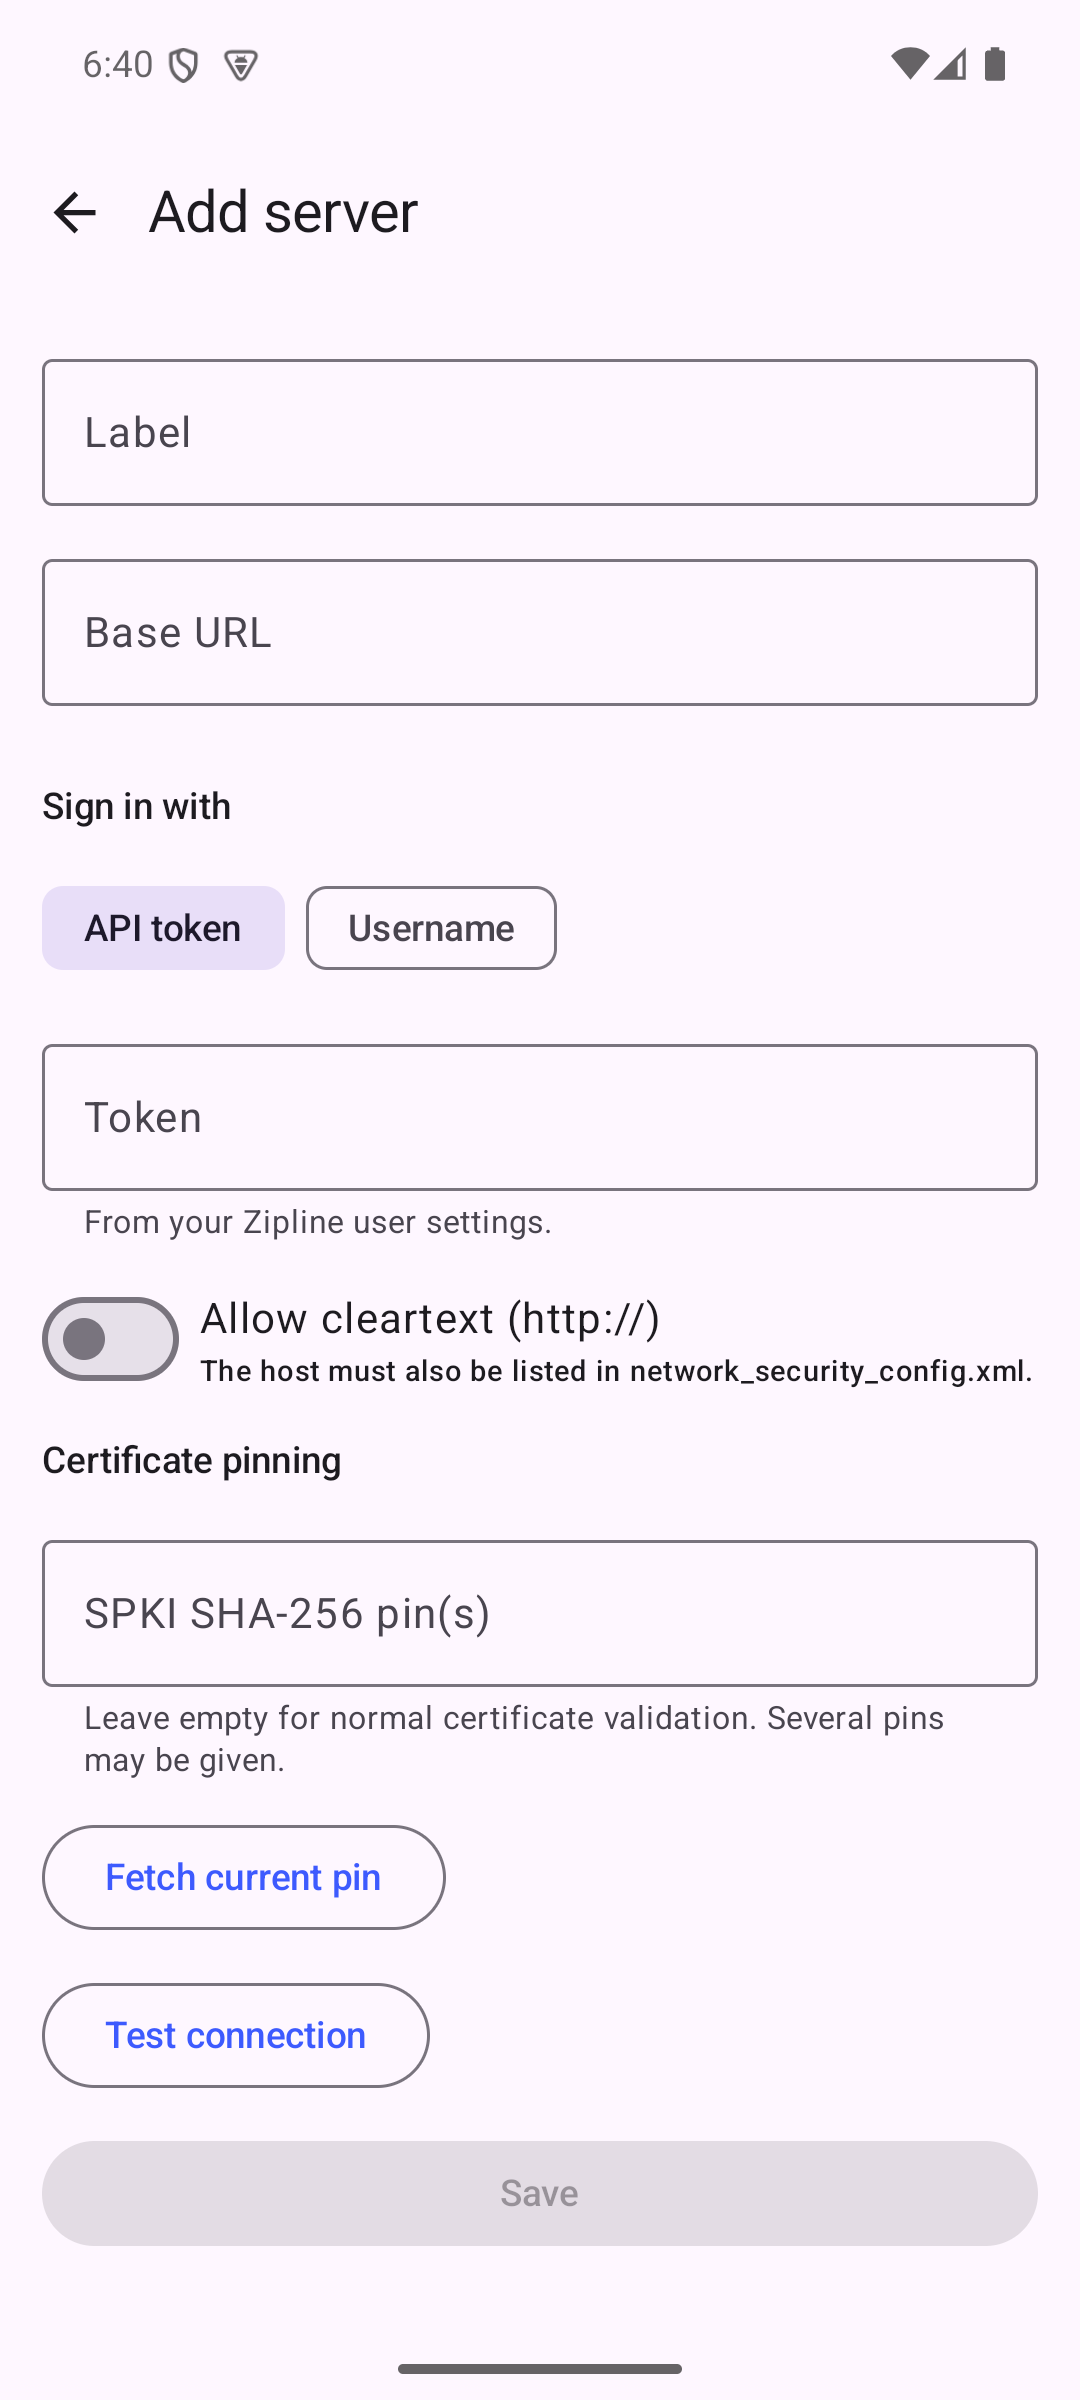
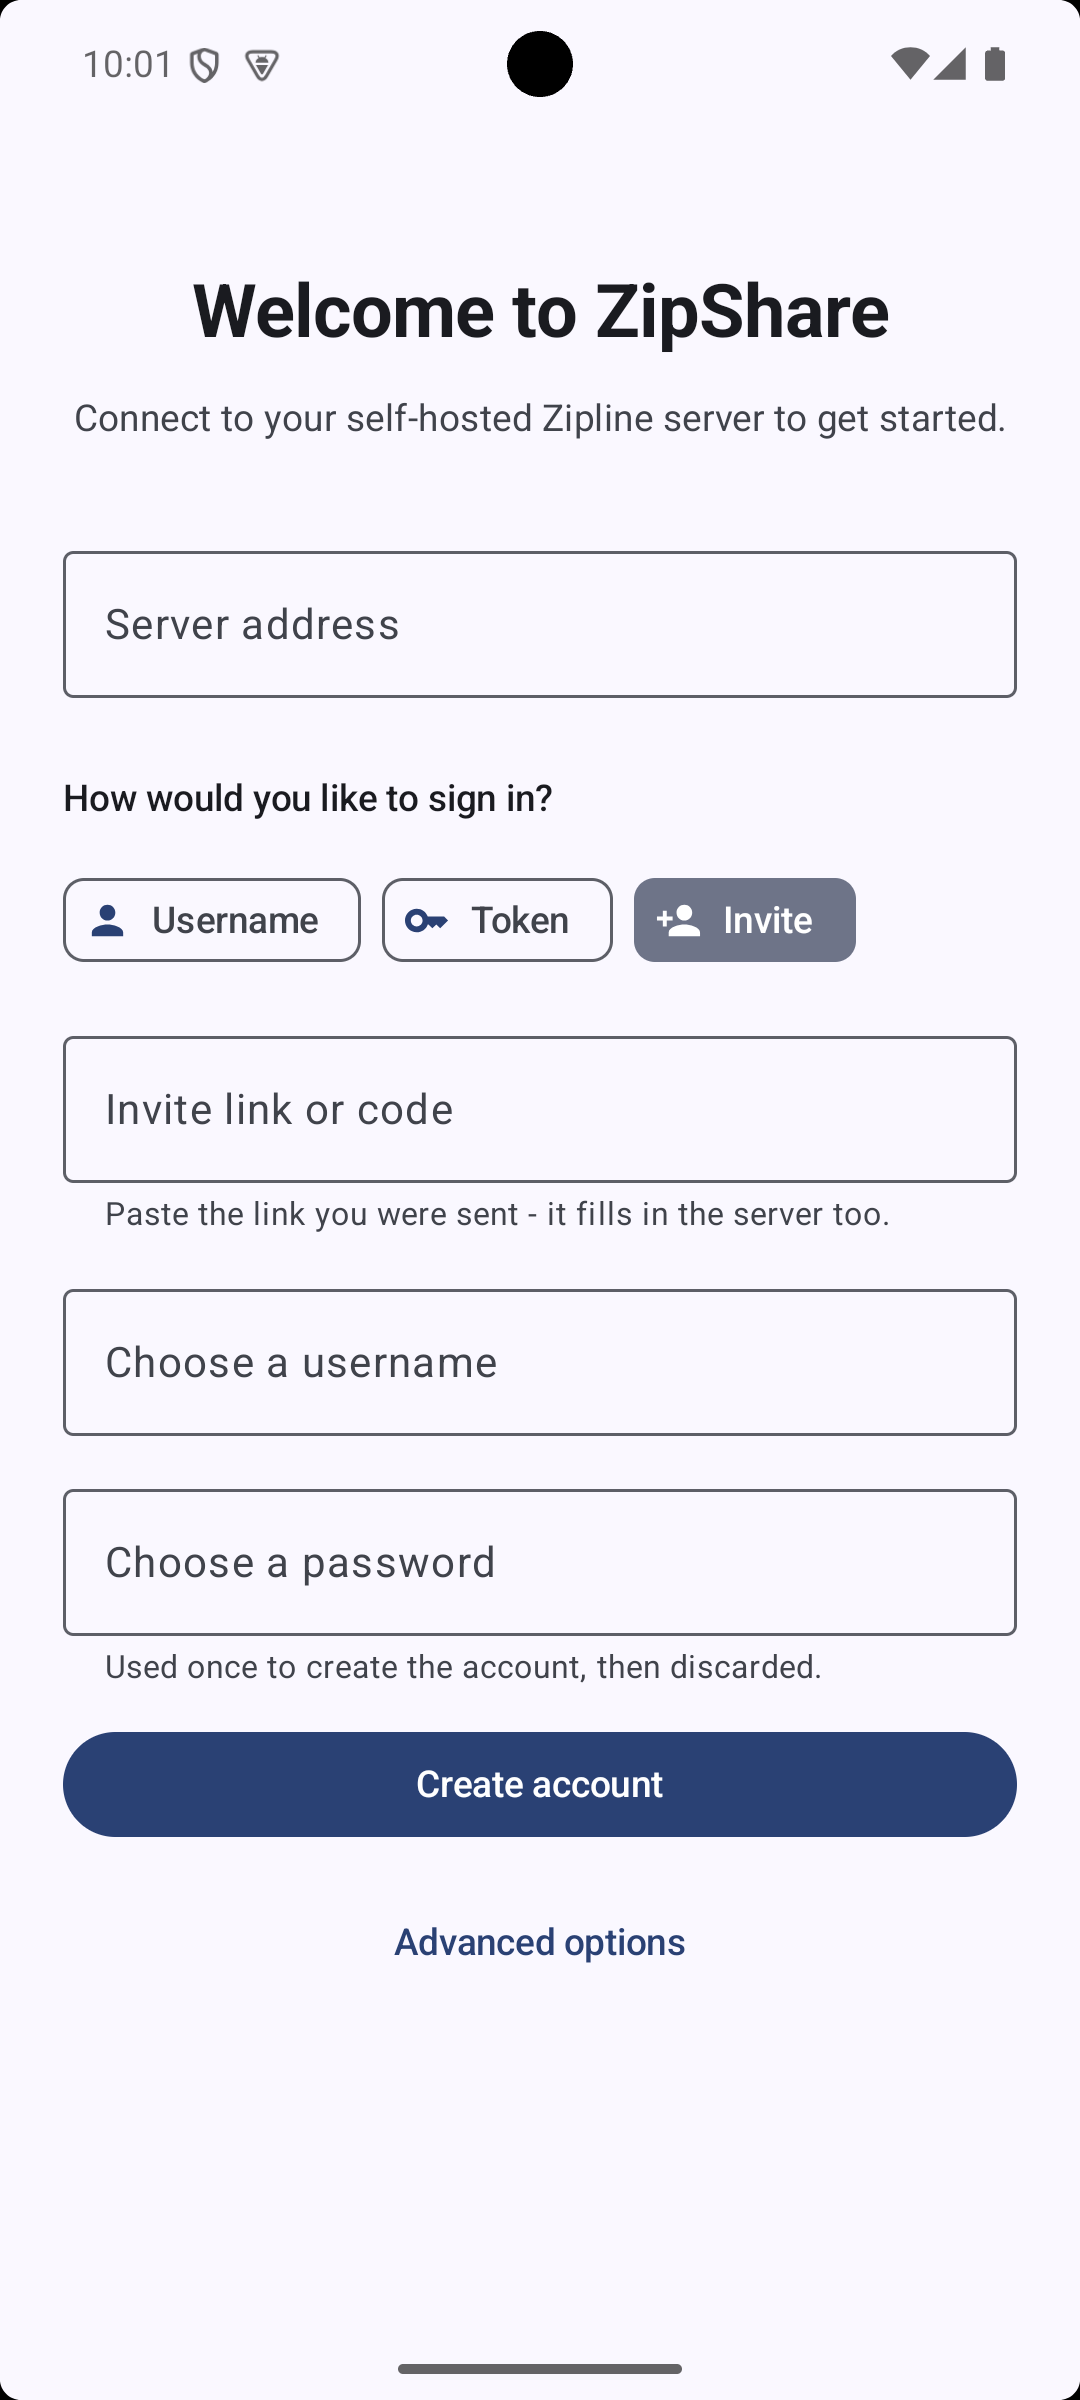
Release 1.4.5 - picture-in-picture docks itself, lint clean (#27)
- Leaving the app during playback now docks the video automatically, and the shrink animates from the video frame instead of the whole window
- Fix all 38 remaining lint warnings; the build is clean with nothing suppressed by accident
- Dependency-currency and preview-SDK checks disabled deliberately - Dependabot owns those and targetSdk 37 is a preview
- Drop the app-search and server-backup screenshots; renumber the rest to a contiguous 01-39

diff --git a/app/src/main/java/dev/zipshare/ui/viewer/VideoPlayer.kt b/app/src/main/java/dev/zipshare/ui/viewer/VideoPlayer.kt
@@ -2,6 +2,7 @@ package dev.zipshare.ui.viewer
 
 import android.app.Activity
 import android.app.PictureInPictureParams
+import android.os.Build
 import android.util.Rational
 import androidx.compose.foundation.layout.Box
 import androidx.compose.foundation.layout.padding
@@ -11,10 +12,17 @@ import androidx.compose.material3.Icon
 import androidx.compose.material3.IconButton
 import androidx.compose.runtime.Composable
 import androidx.compose.runtime.DisposableEffect
+import androidx.compose.runtime.LaunchedEffect
+import androidx.compose.runtime.getValue
+import androidx.compose.runtime.mutableStateOf
 import androidx.compose.runtime.remember
+import androidx.compose.runtime.setValue
 import androidx.compose.ui.Alignment
 import androidx.compose.ui.Modifier
+import androidx.compose.ui.geometry.Rect
 import androidx.compose.ui.graphics.Color
+import androidx.compose.ui.layout.boundsInWindow
+import androidx.compose.ui.layout.onGloballyPositioned
 import androidx.compose.ui.platform.LocalConfiguration
 import androidx.compose.ui.platform.LocalContext
 import androidx.compose.ui.unit.dp
@@ -27,6 +35,7 @@ import androidx.media3.exoplayer.source.DefaultMediaSourceFactory
 import androidx.media3.ui.PlayerView
 import dev.zipshare.ui.findActivity
 import okhttp3.OkHttpClient
+
 
 /**
  * Plays a file straight off the server.
@@ -61,9 +70,21 @@ fun VideoPlayer(url: String, client: OkHttpClient, modifier: Modifier = Modifier
 
     DisposableEffect(player) { onDispose { player.release() } }
 
+    // Where the video sits on screen, so the system can animate the shrink from the real frame
+    // instead of the whole window. Kept as state because it is only known after layout.
+    var videoBounds by remember { mutableStateOf<Rect?>(null) }
+
+    // Registering the params up front is what lets Android dock automatically when the user leaves
+    // during playback (API 31+); without it PiP only ever happens on the explicit button.
+    LaunchedEffect(activity, videoBounds, player.videoSize) {
+        activity?.updatePipParams(player.videoSize.width, player.videoSize.height, videoBounds)
+    }
+
     Box(modifier) {
         AndroidView(
-            modifier = Modifier.matchParentSize(),
+            modifier = Modifier
+                .matchParentSize()
+                .onGloballyPositioned { videoBounds = it.boundsInWindow() },
             factory = { ctx -> PlayerView(ctx).apply { this.player = player } },
             update = { view ->
                 view.player = player
@@ -76,7 +97,7 @@ fun VideoPlayer(url: String, client: OkHttpClient, modifier: Modifier = Modifier
 
         if (activity != null && !inPip) {
             IconButton(
-                onClick = { activity.enterPip(player.videoSize.width, player.videoSize.height) },
+                onClick = { activity.enterPip(player.videoSize.width, player.videoSize.height, videoBounds) },
                 modifier = Modifier.align(Alignment.TopEnd).padding(8.dp),
             ) {
                 Icon(
@@ -111,17 +132,34 @@ private fun rememberIsInPip(): Boolean {
  * [IllegalArgumentException], so an unusually wide or tall video is clamped rather than left to
  * crash the viewer. A video whose size is not known yet falls back to 16:9.
  */
-private fun Activity.enterPip(width: Int, height: Int) {
-    val (numerator, denominator) = pipAspect(width, height)
+private fun Activity.enterPip(width: Int, height: Int, source: Rect?) {
     // Docking can still be refused - the device may have PiP disabled in settings, or the activity
     // may not be in the foreground by the time this lands.
-    runCatching {
-        enterPictureInPictureMode(
-            PictureInPictureParams.Builder()
-                .setAspectRatio(Rational(numerator, denominator))
-                .build(),
-        )
-    }
+    runCatching { enterPictureInPictureMode(pipParams(width, height, source)) }
+}
+
+/**
+ * Publishes the params without docking, which is what auto-enter needs.
+ *
+ * From Android 12 the system docks on its own when the user leaves during playback, but only if
+ * the activity has already declared its params - so this runs as soon as the video's size and
+ * on-screen position are known, not at the moment the button is pressed.
+ */
+private fun Activity.updatePipParams(width: Int, height: Int, source: Rect?) {
+    runCatching { setPictureInPictureParams(pipParams(width, height, source)) }
+}
+
+private fun Activity.pipParams(width: Int, height: Int, source: Rect?): PictureInPictureParams {
+    val (numerator, denominator) = pipAspect(width, height)
+    return PictureInPictureParams.Builder()
+        .setAspectRatio(Rational(numerator, denominator))
+        .apply {
+            // The rect the window shrinks *from*. Without it the animation flies out of the whole
+            // screen rather than the video frame, which is the poor transition lint warns about.
+            source?.let { setSourceRectHint(android.graphics.Rect(it.left.toInt(), it.top.toInt(), it.right.toInt(), it.bottom.toInt())) }
+            if (Build.VERSION.SDK_INT >= Build.VERSION_CODES.S) setAutoEnterEnabled(true)
+        }
+        .build()
 }
 
 /**

diff --git a/app/src/main/java/dev/zipshare/upload/UploadNotifications.kt b/app/src/main/java/dev/zipshare/upload/UploadNotifications.kt
@@ -1,5 +1,7 @@
 package dev.zipshare.upload
 
+import android.Manifest
+import android.annotation.SuppressLint
 import android.app.Notification
 import android.app.NotificationChannel
 import android.app.NotificationManager
@@ -9,21 +11,20 @@ import android.content.ClipDescription
 import android.content.ClipboardManager
 import android.content.Context
 import android.content.Intent
+import android.content.pm.PackageManager
 import android.content.pm.ServiceInfo
 import android.net.Uri
-import android.Manifest
-import android.content.pm.PackageManager
 import android.os.Build
-import androidx.core.content.ContextCompat
 import android.os.PersistableBundle
 import androidx.core.app.NotificationCompat
 import androidx.core.app.NotificationManagerCompat
+import androidx.core.content.ContextCompat
+import androidx.core.net.toUri
 import androidx.work.ForegroundInfo
 import dagger.hilt.android.qualifiers.ApplicationContext
 import dev.zipshare.R
 import javax.inject.Inject
 import javax.inject.Singleton
-
 @Singleton
 class UploadNotifications @Inject constructor(@ApplicationContext private val context: Context) {
 
@@ -90,7 +91,7 @@ class UploadNotifications @Inject constructor(@ApplicationContext private val co
         val open = PendingIntent.getActivity(
             context,
             id,
-            Intent(Intent.ACTION_VIEW, Uri.parse(url)).addFlags(Intent.FLAG_ACTIVITY_NEW_TASK),
+            Intent(Intent.ACTION_VIEW, url.toUri()).addFlags(Intent.FLAG_ACTIVITY_NEW_TASK),
             PendingIntent.FLAG_IMMUTABLE or PendingIntent.FLAG_UPDATE_CURRENT,
         )
         val share = PendingIntent.getActivity(
@@ -146,6 +147,9 @@ class UploadNotifications @Inject constructor(@ApplicationContext private val co
      * instance the URL *is* the secret, and this keeps it out of clipboard previews and
      * clipboard-history surfaces.
      */
+    // EXTRA_IS_SENSITIVE is API 33, but it is only a bundle key: an older platform stores the
+    // extra and ignores it rather than failing, so there is nothing to guard with a version check.
+    @SuppressLint("InlinedApi")
     fun copyToClipboard(url: String) {
         val cm = context.getSystemService(ClipboardManager::class.java) ?: return
         val clip = ClipData.newPlainText("ZipShare", url)

diff --git a/app/src/main/java/dev/zipshare/data/prefs/SecureStore.kt b/app/src/main/java/dev/zipshare/data/prefs/SecureStore.kt
@@ -9,6 +9,7 @@ import dagger.hilt.android.qualifiers.ApplicationContext
 import dev.zipshare.log.AppLog
 import javax.inject.Inject
 import javax.inject.Singleton
+import androidx.core.content.edit
 
 /**
  * Whether an upload secret started at [startedAt] can no longer belong to a live upload.
@@ -51,7 +52,7 @@ class SecureStore @Inject constructor(@ApplicationContext private val context: C
             // so leave a marker: silently returning the user to an empty sign-in screen is
             // indistinguishable from a bug or an unexplained logout.
             context.deleteSharedPreferences(FILE)
-            recovery.edit().putBoolean(KEY_WAS_RESET, true).apply()
+            recovery.edit { putBoolean(KEY_WAS_RESET, true) }
             open(strongBox = false)
         }
         .getOrThrow()
@@ -62,7 +63,7 @@ class SecureStore @Inject constructor(@ApplicationContext private val context: C
      */
     fun consumeKeysetReset(): Boolean {
         if (!recovery.getBoolean(KEY_WAS_RESET, false)) return false
-        recovery.edit().remove(KEY_WAS_RESET).apply()
+        recovery.edit { remove(KEY_WAS_RESET) }
         return true
     }
 
@@ -94,17 +95,17 @@ class SecureStore @Inject constructor(@ApplicationContext private val context: C
     fun putUploadSecret(value: String): String {
         val id = java.util.UUID.randomUUID().toString()
         // Written together so a secret can never exist without the timestamp the sweep judges it by.
-        prefs.edit()
-            .putString(SECRET_PREFIX + id, value)
-            .putLong(STARTED_PREFIX + id, System.currentTimeMillis())
-            .apply()
+        prefs.edit {
+            putString(SECRET_PREFIX + id, value)
+            putLong(STARTED_PREFIX + id, System.currentTimeMillis())
+        }
         return id
     }
 
     fun uploadSecret(id: String): String? = prefs.getString(SECRET_PREFIX + id, null)
 
     fun removeUploadSecret(id: String) {
-        prefs.edit().remove(SECRET_PREFIX + id).remove(STARTED_PREFIX + id).apply()
+        prefs.edit { remove(SECRET_PREFIX + id); remove(STARTED_PREFIX + id) }
     }
 
     /**

diff --git a/app/src/main/java/dev/zipshare/data/ProfileRepository.kt b/app/src/main/java/dev/zipshare/data/ProfileRepository.kt
@@ -17,6 +17,7 @@ import kotlinx.serialization.builtins.ListSerializer
 import kotlinx.serialization.json.Json
 import javax.inject.Inject
 import javax.inject.Singleton
+import androidx.core.content.edit
 
 /**
  * Profiles (including tokens) live only in EncryptedSharedPreferences. Nothing here is logged.
@@ -100,9 +101,7 @@ class ProfileRepository @Inject constructor(
         _activeId.value = id
         // Encrypting the write is cheap once warm, but keep it off the caller's thread regardless.
         scope.launch {
-            secure.prefs.edit()
-                .apply { if (id == null) remove(KEY_ACTIVE) else putString(KEY_ACTIVE, id) }
-                .apply()
+            secure.prefs.edit { if (id == null) remove(KEY_ACTIVE) else putString(KEY_ACTIVE, id) }
         }
     }
 
@@ -118,9 +117,9 @@ class ProfileRepository @Inject constructor(
 
     private fun persist(list: List<Profile>) {
         scope.launch {
-            secure.prefs.edit()
-                .putString(KEY_PROFILES, json.encodeToString(ListSerializer(Profile.serializer()), list))
-                .apply()
+            secure.prefs.edit {
+                putString(KEY_PROFILES, json.encodeToString(ListSerializer(Profile.serializer()), list))
+            }
         }
     }
 

diff --git a/app/src/main/java/dev/zipshare/ui/viewer/ImageViewerScreen.kt b/app/src/main/java/dev/zipshare/ui/viewer/ImageViewerScreen.kt
@@ -50,6 +50,7 @@ import coil.compose.SubcomposeAsyncImageContent
 import kotlinx.coroutines.launch
 import dev.zipshare.data.model.formatLink
 import dev.zipshare.ui.shell.LocalLinkFormat
+import androidx.core.net.toUri
 
 /**
  * Full-screen viewer. Pinch to zoom, drag to pan once zoomed, double-tap to toggle 1x/2.5x,
@@ -144,7 +145,7 @@ fun ImageViewerScreen(
                             onClick = {
                                 runCatching {
                                     context.startActivity(
-                                        Intent(Intent.ACTION_VIEW, android.net.Uri.parse(shareUrl)),
+                                        Intent(Intent.ACTION_VIEW, shareUrl.toUri()),
                                     )
                                 }
                             },

diff --git a/app/src/main/java/dev/zipshare/ui/settings/TotpSection.kt b/app/src/main/java/dev/zipshare/ui/settings/TotpSection.kt
@@ -37,6 +37,7 @@ import androidx.lifecycle.compose.collectAsStateWithLifecycle
 import dev.zipshare.data.model.otpauthUri
 import dev.zipshare.ui.SecureScreen
 import dev.zipshare.ui.rememberDataUrlBitmap
+import androidx.core.net.toUri
 
 /**
  * Two-factor enrollment, mirroring the web dashboard's MFA panel.
@@ -159,7 +160,7 @@ private fun QrImage(dataUrl: String?) {
  */
 private fun openInAuthenticator(context: Context, uri: String) {
     try {
-        context.startActivity(Intent(Intent.ACTION_VIEW, Uri.parse(uri)))
+        context.startActivity(Intent(Intent.ACTION_VIEW, uri.toUri()))
     } catch (e: ActivityNotFoundException) {
         Toast.makeText(
             context,

diff --git a/README.md b/README.md
@@ -26,7 +26,7 @@ encrypted storage and no telemetry of any kind.
 |:---:|:---:|:---:|
 | <img src="docs/screenshots/03-dashboard.png" width="230" alt="Dashboard"> | <img src="docs/screenshots/09-files-grid.png" width="230" alt="File grid"> | <img src="docs/screenshots/06-totp-setup.png" width="230" alt="TOTP enrollment with QR and authenticator hand-off"> |
 
-<sub><b>38 more screenshots</b> — open a section below.</sub>
+<sub><b>36 more screenshots</b> — open a section below.</sub>
 
 <details>
 <summary><b>Signing in &amp; your account</b> — sign-in, invite signup, servers, account menu, avatar, sessions, two-factor</summary>
@@ -47,9 +47,9 @@ encrypted storage and no telemetry of any kind.
 |:---:|:---:|:---:|
 | <img src="docs/screenshots/32-diagnostic.png" width="230" alt="Diagnostic page: history, logs, settings backup and import"> | <img src="docs/screenshots/33-server-version.png" width="230" alt="Zipline server version panel"> | <img src="docs/screenshots/34-sharing.png" width="230" alt="Link format: plain, markdown or view page"> |
 
-| Servers | Search | Server backup |
+| Servers | | |
 |:---:|:---:|:---:|
-| <img src="docs/screenshots/36-servers.png" width="230" alt="Server list with three profiles, each with its own URL and settings"> | <img src="docs/screenshots/37-app-search.png" width="230" alt="Searching every screen and setting from the dashboard"> | <img src="docs/screenshots/40-server-backup.png" width="230" alt="Password-encrypted export of every server and its token"> |
+| <img src="docs/screenshots/36-servers.png" width="230" alt="Server list with three profiles, each with its own URL and settings"> | | |
 
 </details>
 
@@ -70,7 +70,7 @@ encrypted storage and no telemetry of any kind.
 
 | Per-format compression | On-device compression | |
 |:---:|:---:|:---:|
-| <img src="docs/screenshots/35-auto-compression.png" width="230" alt="Auto compression with separate JPEG and PNG quality"> | <img src="docs/screenshots/38-device-compression.png" width="230" alt="Re-encoding to WebP or JPEG on the phone before uploading"> | |
+| <img src="docs/screenshots/35-auto-compression.png" width="230" alt="Auto compression with separate JPEG and PNG quality"> | <img src="docs/screenshots/37-device-compression.png" width="230" alt="Re-encoding to WebP or JPEG on the phone before uploading"> | |
 
 </details>
 
@@ -87,7 +87,7 @@ encrypted storage and no telemetry of any kind.
 
 | Upload queue | Picture-in-picture | |
 |:---:|:---:|:---:|
-| <img src="docs/screenshots/39-upload-queue.png" width="230" alt="Upload queue for the active server, with progress and cancel"> | <img src="docs/screenshots/41-picture-in-picture.png" width="230" alt="Video docked in a floating window over another app"> | |
+| <img src="docs/screenshots/38-upload-queue.png" width="230" alt="Upload queue for the active server, with progress and cancel"> | <img src="docs/screenshots/39-picture-in-picture.png" width="230" alt="Video docked in a floating window over another app"> | |
 
 </details>
 
